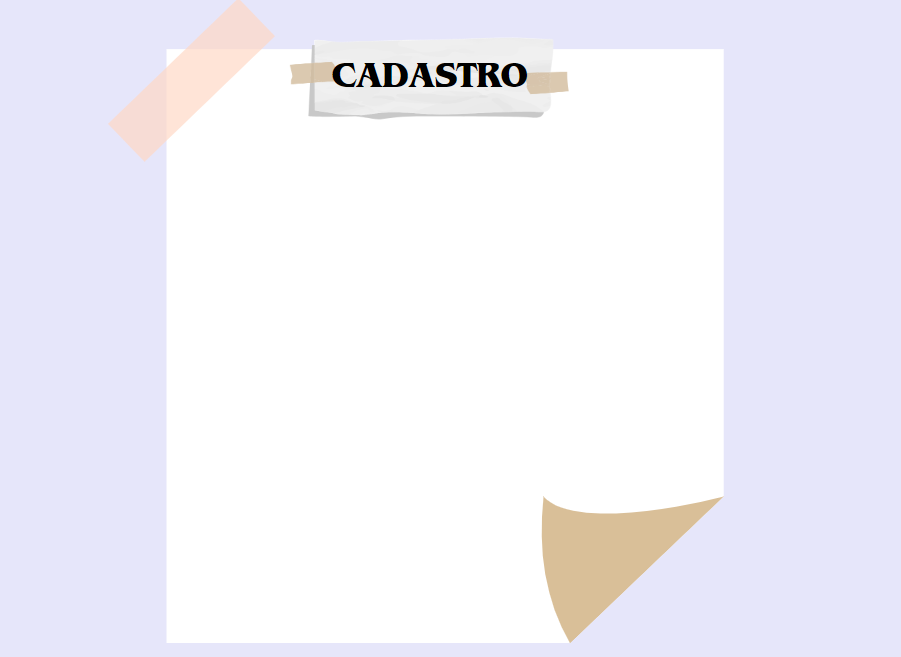
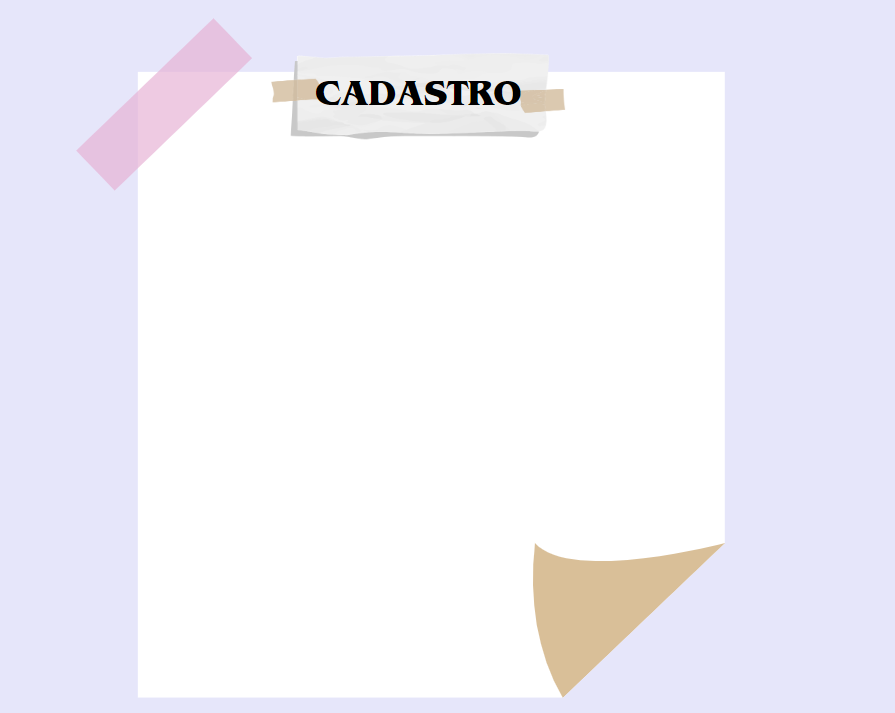
Terminei a estilização do cadastro e login, comecei a dashboard e comecei as validações do cadastro

Changed region(s): [[0.0905, 0.0, 0.8145, 1.0], [0.6034, 0.8828, 0.6637, 0.9741], [0.724, 0.8219, 0.7542, 0.8524]]

diff --git a/site/public/cadastro.html b/site/public/cadastro.html
@@ -6,26 +6,110 @@
     <meta name="viewport" content="width=device-width, initial-scale=1.0">
     <title>Cadastro</title>
     <meta charset="utf-8">
+    <link rel="icon" href="assets/favicon/favicon.ico">
     <link rel="stylesheet" href="css/style.css">
+    <link rel="stylesheet" href="css/login.css">
     <link rel="stylesheet" href="css/cadastro.css">
-        
+
 </head>
 
 <body>
-    <div class="logo">
-        <img src="imagens/logo.png">
-        <h1>
-            BOOK'S CLUB
-        </h1>
+    <div class="header">
+        <div class="container">
+            <div class="logo">
+                <img src="assets/imgs/logo.png">
+                <h1>
+                    BOOK'S CLUB
+                </h1>
+            </div>
+            <ul class="itens">
+                <li class="home_login">
+                    <img src="assets/imgs/casa.png" class="imagens">
+                    <a href="index.html">HOME</a>
+                </li>
+            </ul>
+        </div>
     </div>
 
-    Nome: <input type="text" id="input_nome"> <br>
-    Sobrenome <input type="text" id="input_sobrenome"> <br>
-    Email: <input type="text" id="input_email"> <br>
-    Senha: <input type="text" id="input_senha"> <br>
-    Confirme sua senha: <input type="text" id="input_confirmarSenha">
-    <button onclick="cadastrar()">Cadastrar</button>
+    <div class="banner_login">
+        <div style=" background-image: url(assets/imgs/cadastro_img.png);" class="container_login2">
+            <div class="campos_login2">
+                <div class="login_email">
+                    <div class="emails">
+                        <div class="email">Nome</div> <input class="input2" type="text" id="input_nome">
+                    </div><br>
+                </div>
+                <div class="login_email">
+                    <div class="emails">
+                        <div class="sobrenome">Sobrenome</div> <input class="input2" type="text" id="input_sobrenome">
+                    </div> <br>
+                </div>
+                <div class="login_email">
+                    <div class="emails">
+                        <div class="email">Email</div> <input class="input2" type="text" id="input_email">
+                    </div><br>
+                </div>
+                <div class="login_email">
+                    <div class="emails">
+                        <div class="email">Senha</div> <input class="input2" type="password" id="input_senha">
+                    </div><br>
+                </div>
+                <div class="login_email">
+                    <div class="emails">
+                        <div class="conf_senha">Confirmar senha</div> <input class="input2" type="password"
+                            id="input_confirmarSenha">
+                    </div>
+                </div>
+                <div class="botao2">
+                    <button class="button2" onclick="cadastrar()">CADASTRAR</button>
+                </div>
+            </div>
+        </div>
+    </div>
+
+
+
+    <br> <br> <br>
+    <div class="footer">
+        <div class="container_footer">
+            <div class="titulos_footer">
+                <h2 class="h2_footer">EXPLORAR</h2>
+                <h2 class="h2_footer">FUNCIONALIDADES</h2>
+                <h2 class="h2_footer">INFORMAÇÕES DE CONTATO</h2>
+            </div>
+            <div class="footer_texto">
+                <div class="footer_topicos">
+                    <a href="index.html"> • Home </a> <br> <br>
+                </div>
+                <div class="footer_topicos">
+                    <a href="cadastro.html">• Cadastro </a> <br> <br>
+                    <a href="login.html">• Login </a>
+                </div>
+                <div class="footer_topicos">
+                    <ul class="itens">
+                        <li class="item_sptech">
+                            <img src="assets/imgs/gps.png" class="imagens">
+                            SPTECH
+                        </li>
+                        <br>
+                        <li class="item_sptech">
+                            <img src="assets/imgs/telefone.png" class="imagens">
+                            (11)95030-4200
+                        </li>
+                        <br>
+                        <li class="item_sptech">
+                            <img src="assets/imgs/e-mail.png" class="imagens">
+                            booksclub@sptech.school
+                        </li>
+                    </ul>
+                </div>
+            </div>
+            <br>
+            <a href="index.html" class="footer_booksclub"> BOOK'S CLUB</a>
+        </div>
+    </div>
 </body>
+
 </html>
 <script src="js/cadastro.js">
 </script>

diff --git a/site/public/css/login.css b/site/public/css/login.css
@@ -1,9 +1,10 @@
 input:focus {
     box-shadow: 0 0 0 0;
     outline: 0;
+    padding: 0px 50px 0px 50px;
 }
 
-.home_login{
+.home_login {
     border-radius: 15px;
     border: solid 3px black;
     padding-top: 5px;
@@ -13,31 +14,37 @@ input:focus {
     margin-right: 1100px;
 }
 
-.banner_login{
-   padding-top: 100px;
+.banner_login {
+    padding-top: 100px;
     border: solid 5px hotpink;
     display: flex;
     justify-content: center;
 }
 
-.banner_login .container_login2{
+.banner_login .container_login2 {
     width: 55%;
     background-repeat: no-repeat;
-    height: 670px;
+    height: 730px;
     border: solid 5px gold;
     justify-content: center;
     display: flex;
     align-items: center;
 }
 
-.banner_login .container_login2 .campos_login{
+.banner_login .container_login2 .campos_login {
     border: solid 5px olive;
     width: 60%;
     height: 300px;
-    margin-right: 100px;
 }
 
-.banner_login  .container_login2 .campos_login .email{
+.banner_login .container_login2 .campos_login .botao {
+    border: solid 5px green;
+    display: flex;
+    justify-content: center;
+    margin-top: 20px;
+}
+
+.email {
     border: solid 5px #e5dad8;
     border-radius: 20px;
     width: 12%;
@@ -46,33 +53,32 @@ input:focus {
     font-weight: bolder;
 }
 
-.banner_login  .container_login2 .campos_login .login_email{
+.login_email {
     border: solid 5px hotpink;
     font-size: 19px;
     font-family: 'Courier New', Courier, monospace;
 }
 
-.banner_login  .container_login2 .campos_login input{
+.input {
     border: solid 0.5px black;
     border-radius: 20px;
-    width: 50%;
     margin-left: 10px;
     margin-top: 4px;
     margin-block-end: 4px;
 }
 
-.banner_login  .container_login2 .campos_login button{
-   background-color: #e5dad8;
-   cursor: pointer;
-   width: 18%;
-   font-family: 'Courier New', Courier, monospace;
-   font-size: 19px;
-   font-weight: bolder;
-   padding-top: 4px;
-   padding-block-end: 4px;
+.banner_login .container_login2 .campos_login button {
+    background-color: #e5dad8;
+    cursor: pointer;
+    width: 18%;
+    font-family: 'Courier New', Courier, monospace;
+    font-size: 19px;
+    font-weight: bolder;
+    padding-top: 4px;
+    padding-block-end: 4px;
 }
 
-.emails{
+.emails {
     border: solid 5px firebrick;
     display: flex;
     justify-content: center;

diff --git a/site/public/login.html b/site/public/login.html
@@ -1,5 +1,6 @@
 <!DOCTYPE html>
 <html lang="en">
+
 <head>
     <meta charset="UTF-8">
     <meta name="viewport" content="width=device-width, initial-scale=1.0">
@@ -7,6 +8,7 @@
     <link rel="stylesheet" href="css/style.css">
     <link rel="stylesheet" href="css/login.css">
 </head>
+
 <body>
     <div class="header">
         <div class="container">
@@ -25,21 +27,30 @@
         </div>
     </div>
 
-
     <div class="banner_login">
-        <div style=" background-image: url(assets/imgs/login_img.png);" class="container_login2"> 
+        <div style=" background-image: url(assets/imgs/login_img.png);" class="container_login2">
             <div class="campos_login">
                 <div class="login_email">
-                    <div class="emails"> 
-                <div class="email">Email</div> <input type="text" id="input_email"> </div><br>
-            </div> <div class="login_email"> 
-                <div class="emails">
-                    <div class="email">Senha</div>  <input type="password" id="input_senha">  </div> </div> <br>
-                <button onclick="entrar()">ENTRAR</button>
+                    <div class="emails">
+                        <div class="email">Email</div> <input class="input" type="text" id="input_email">
+                    </div><br>
+                </div>
+                <div class="login_email">
+                    <div class="emails">
+                        <div class="email">Senha</div> <input class="input" type="password" id="input_senha">
+
+                    </div>
+                </div>
+                <div class="botao">
+                    <button class="button" onclick="entrar()">ENTRAR</button>
+                </div>
             </div>
         </div>
     </div>
-<br> <br> <br>
+
+
+
+    <br> <br> <br>
     <div class="footer">
         <div class="container_footer">
             <div class="titulos_footer">
@@ -77,6 +88,7 @@
             <br>
             <a href="index.html" class="footer_booksclub"> BOOK'S CLUB</a>
         </div>
-    </div> 
+    </div>
 </body>
+
 </html>

diff --git a/site/public/css/cadastro.css b/site/public/css/cadastro.css
@@ -1,29 +1,51 @@
-/* .logo img{
-    width: 130%;
+.banner_login .container_login2 .campos_login2{
+  border: solid 5px olive;
+  width: 80%;
+  height: 55%;
+  margin-left: 10px;
 }
 
-.logo h1{
-    font-size: 20px;
+.sobrenome{
+  border: solid 5px #e5dad8;
+  border-radius: 20px;
+  width: 20%;
+  text-align: center;
+  background-color: #e5dad8;
+  font-weight: bolder;
 }
 
-.cadastre-se {
-    margin: auto;
-    position: relative;
-    transform-origin: bottom left;
-    transform: rotate(-61deg);
-    height: 200px;
-    width: 200px;
-  }
-  
-  .cadastre-se div {
-    display: inline-block;
-    font: 900 1.5em Monaco, Monospace;
-    color: #000000;
-    height: 200px;
-    width: 15px;
-    position: absolute;
-    left: 0;
-    top: 0;
-    transform-origin: bottom center;
-    text-align: center;
-  } */
+.conf_senha{
+  border: solid 5px #e5dad8;
+  border-radius: 20px;
+  width: 30%;
+  text-align: center;
+  background-color: #e5dad8;
+  font-weight: bolder;
+}
+
+.input2{
+  border: solid 0.5px black;
+  border-radius: 20px;
+  margin-left: 10px;
+  margin-top: 4px;
+  margin-block-end: 4px;
+}
+
+
+.banner_login .container_login2 .campos_login2 .botao2{
+  border: solid 5px green;
+  display: flex;
+  justify-content: center;
+  margin-top: 20px;
+}
+
+.banner_login .container_login2 .campos_login2 .button2{
+  background-color: #e5dad8;
+  cursor: pointer;
+  width: 30%;
+  font-family: 'Courier New', Courier, monospace;
+  font-size: 25px;
+  font-weight: bolder;
+  padding-top: 4px;
+  padding-block-end: 4px;
+}

diff --git a/site/public/js/cadastro.js b/site/public/js/cadastro.js
@@ -6,6 +6,11 @@ function cadastrar() {
     var senhaVar = input_senha.value;
     var confirmacaoSenhaVar = input_confirmarSenha.value;
 
+  // if(nomeVar == `` || sobrenomeVar == `` || emailVar == `` || senhaVar == `` || confirmacaoSenhaVar == ``){
+
+  // }
+
+
     fetch("/cadastro/cadastrar", {
       
       method: "POST",

diff --git a/site/public/dashboard.html b/site/public/dashboard.html
@@ -1,0 +1,12 @@
+<!DOCTYPE html>
+<html lang="en">
+<head>
+    <meta charset="UTF-8">
+    <meta name="viewport" content="width=device-width, initial-scale=1.0">
+    <title>Book's Cub - Dahsboard</title>
+    <link rel="icon" href="assets/favicon/favicon.ico">
+</head>
+<body>
+    
+</body>
+</html>

diff --git a/README.md b/README.md
@@ -1,3 +1,3 @@
 # projeto_individual
 
-Meu projeto individual é sobre livros!
+Meu projeto individual é sobre livros e tem como objetivo influenciar cada vez mais pessoas a lerem com frequência, já que a leitura traz diversos benefícios para a nossa saúde mental, bem-estar e educação de qualidade. 
